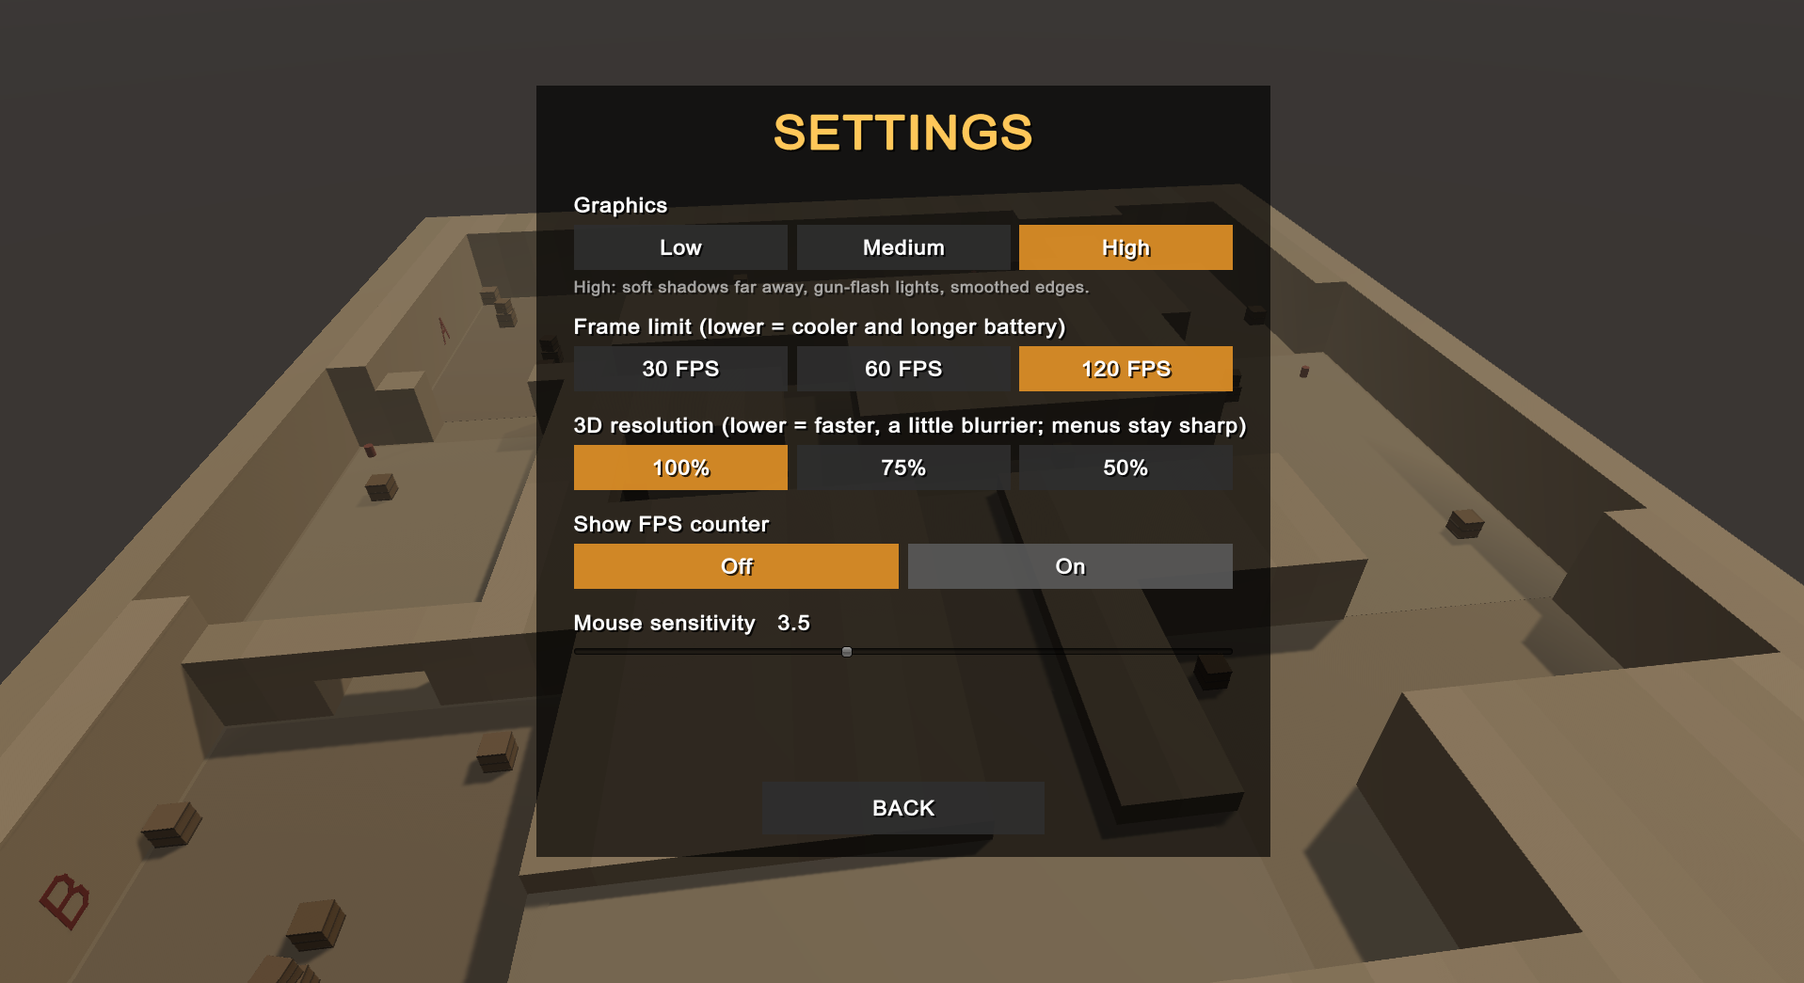
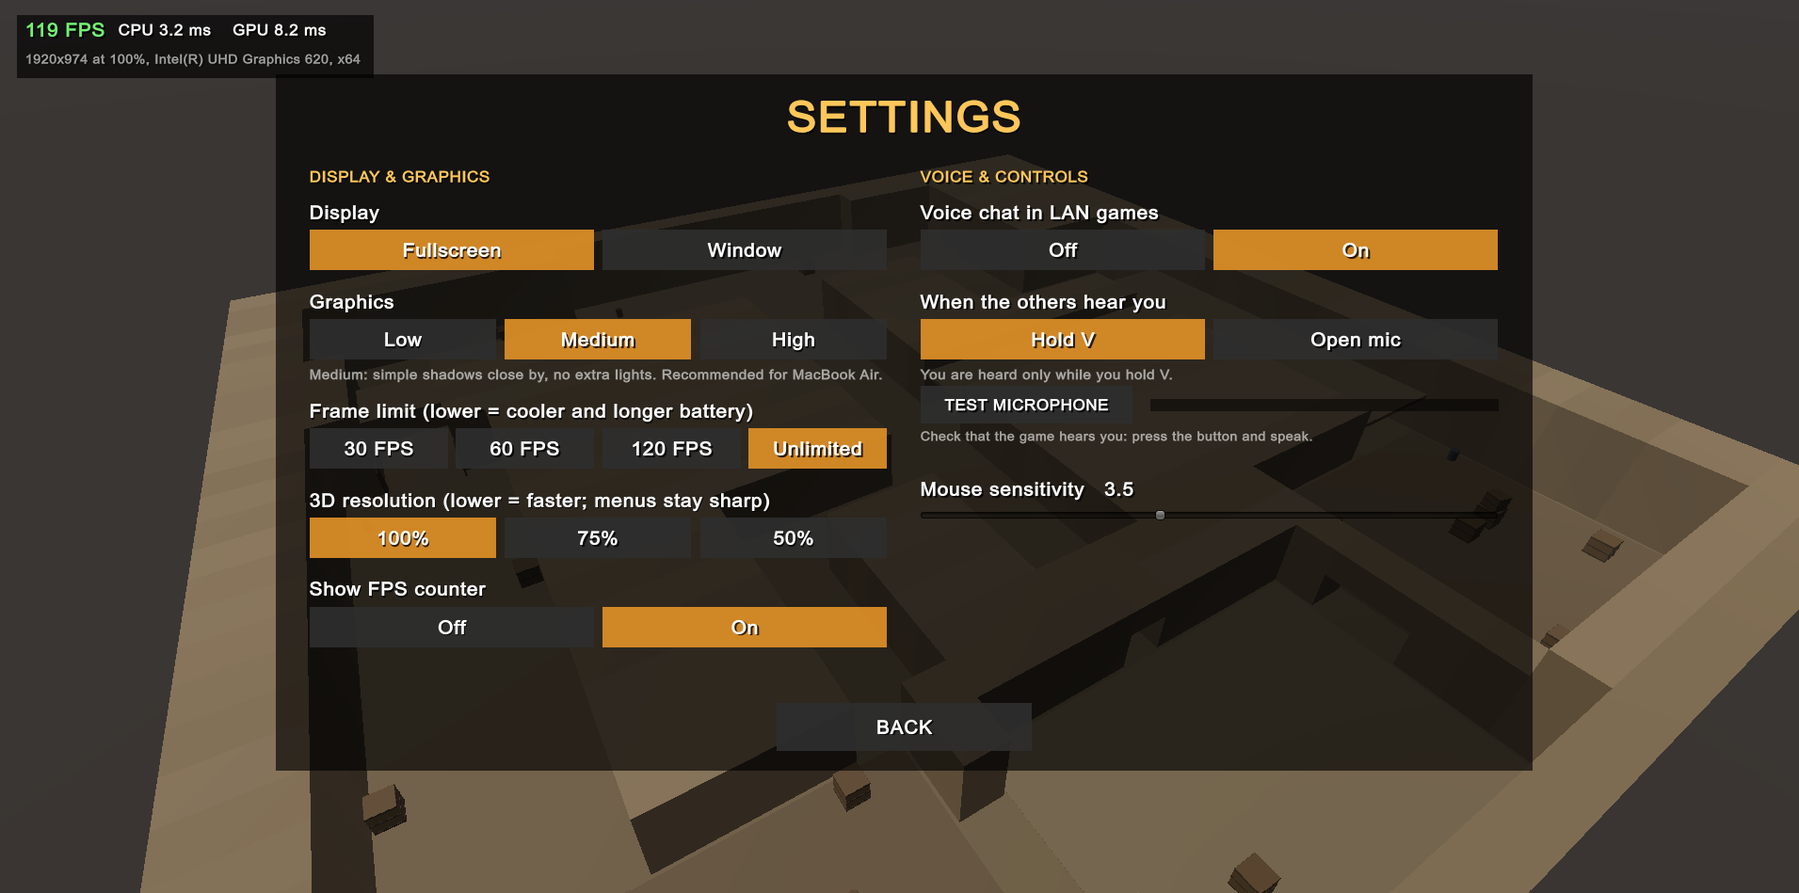
Website: new settings screenshot
The settings picture now shows the two-column Settings (display, frame
limit with Unlimited, voice chat and microphone test); captions updated
in all six languages.

diff --git a/Website/index.html b/Website/index.html
@@ -381,7 +381,7 @@
         <figure><button type="button" class="shot" id="shot-bomb" data-cap="cap_bomb"><img src="media/bombsite.jpg" alt="A Terrorist with the bomb on site A" data-i18n-alt="cap_bomb" width="1280" height="720" loading="lazy"></button><figcaption data-i18n="cap_bomb">A Terrorist with the bomb on site A</figcaption></figure>
         <figure><button type="button" class="shot" id="shot-swat" data-cap="cap_swat"><img src="media/swat.jpg" alt="SWAT in a firefight in the tunnel" data-i18n-alt="cap_swat" width="1280" height="720" loading="lazy"></button><figcaption data-i18n="cap_swat">SWAT in a firefight in the tunnel</figcaption></figure>
         <figure><button type="button" class="shot" id="shot-menu" data-cap="cap_menu"><img src="media/menu.webp" alt="Main menu" data-i18n-alt="cap_menu" loading="lazy"></button><figcaption data-i18n="cap_menu">Main menu: team, players, bots, rounds and friendly fire</figcaption></figure>
-        <figure><button type="button" class="shot" id="shot-settings" data-cap="cap_settings"><img src="media/settings.png" alt="Settings" data-i18n-alt="cap_settings" loading="lazy"></button><figcaption data-i18n="cap_settings">Settings: graphics, frame limit and 3D resolution</figcaption></figure>
+        <figure><button type="button" class="shot" id="shot-settings" data-cap="cap_settings"><img src="media/settings.png" alt="Settings" data-i18n-alt="cap_settings" loading="lazy"></button><figcaption data-i18n="cap_settings">Settings: display, graphics, frame limit, 3D resolution and voice chat</figcaption></figure>
         <figure><button type="button" class="shot" id="shot-inventory" data-cap="cap_inventory"><img src="media/inventory.png" alt="Inventory" data-i18n-alt="cap_inventory" loading="lazy"></button><figcaption data-i18n="cap_inventory">Inventory with the karambit equipped</figcaption></figure>
         <figure><button type="button" class="shot" id="shot-lan" data-cap="cap_lan"><img src="media/lan.webp" alt="LAN game" data-i18n-alt="cap_lan" loading="lazy"></button><figcaption data-i18n="cap_lan">LAN game: host or join on your network</figcaption></figure>
       </div>
@@ -483,7 +483,7 @@
       cat_pistols: "Pistols", cat_smg: "SMG & shotgun", cat_rifles: "Rifles & heavy", cat_equipment: "Equipment",
       screens_title: "Screenshots", screens_text: "Click a picture to see it bigger.",
       cap_team: "Teammates at the start of a round", cap_bomb: "A Terrorist with the bomb on site A", cap_swat: "SWAT in a firefight in the tunnel",
-      cap_menu: "Main menu: team, players, bots, rounds and friendly fire", cap_settings: "Settings: graphics, frame limit and 3D resolution",
+      cap_menu: "Main menu: team, players, bots, rounds and friendly fire", cap_settings: "Settings: display, graphics, frame limit, 3D resolution and voice chat",
       cap_inventory: "Inventory with the karambit equipped", cap_lan: "LAN game: host or join on your network",
       lb_close: "Close", lb_prev: "Previous", lb_next: "Next",
       controls_title: "Controls", controls_text: "Keyboard and mouse, the classic way.", key_mouse: "Mouse", key_space: "Space",
@@ -518,7 +518,7 @@
       cat_pistols: "Пістолети", cat_smg: "ПП і дробовик", cat_rifles: "Гвинтівки й важка зброя", cat_equipment: "Спорядження",
       screens_title: "Скриншоти", screens_text: "Натисни на картинку, щоб збільшити.",
       cap_team: "Союзники на початку раунду", cap_bomb: "Терорист із бомбою на точці A", cap_swat: "SWAT у перестрілці в тунелі",
-      cap_menu: "Головне меню: команда, гравці, боти, раунди й вогонь по своїх", cap_settings: "Налаштування: графіка, обмеження кадрів і 3D-роздільність",
+      cap_menu: "Головне меню: команда, гравці, боти, раунди й вогонь по своїх", cap_settings: "Налаштування: екран, графіка, обмеження кадрів, 3D-роздільність і голосовий чат",
       cap_inventory: "Інвентар із вибраним карамбітом", cap_lan: "Гра по мережі: створи гру або приєднайся",
       lb_close: "Закрити", lb_prev: "Попередній", lb_next: "Наступний",
       controls_title: "Керування", controls_text: "Клавіатура й миша, як завжди.", key_mouse: "Миша", key_space: "Пробіл",
@@ -553,7 +553,7 @@
       cat_pistols: "Pistolen", cat_smg: "MPs & Schrotflinte", cat_rifles: "Gewehre & Schweres", cat_equipment: "Ausrüstung",
       screens_title: "Screenshots", screens_text: "Klick auf ein Bild, um es groß zu sehen.",
       cap_team: "Teamkollegen zu Beginn einer Runde", cap_bomb: "Ein Terrorist mit der Bombe auf Platz A", cap_swat: "SWAT im Feuergefecht im Tunnel",
-      cap_menu: "Hauptmenü: Team, Spieler, Bots, Runden und Friendly Fire", cap_settings: "Einstellungen: Grafik, Bildratenlimit und 3D-Auflösung",
+      cap_menu: "Hauptmenü: Team, Spieler, Bots, Runden und Friendly Fire", cap_settings: "Einstellungen: Anzeige, Grafik, Bildratenlimit, 3D-Auflösung und Sprachchat",
       cap_inventory: "Inventar mit ausgerüstetem Karambit", cap_lan: "LAN-Spiel: im Netzwerk hosten oder beitreten",
       lb_close: "Schließen", lb_prev: "Zurück", lb_next: "Weiter",
       controls_title: "Steuerung", controls_text: "Tastatur und Maus, ganz klassisch.", key_mouse: "Maus", key_space: "Leertaste",
@@ -588,7 +588,7 @@
       cat_pistols: "Pistolets", cat_smg: "PM et fusil à pompe", cat_rifles: "Fusils et armes lourdes", cat_equipment: "Équipement",
       screens_title: "Captures d’écran", screens_text: "Clique sur une image pour l’agrandir.",
       cap_team: "Coéquipiers au début d’une manche", cap_bomb: "Un terroriste avec la bombe sur le site A", cap_swat: "Le SWAT en plein échange de tirs dans le tunnel",
-      cap_menu: "Menu principal : équipe, joueurs, bots, manches et tir allié", cap_settings: "Réglages : graphismes, limite d’images et résolution 3D",
+      cap_menu: "Menu principal : équipe, joueurs, bots, manches et tir allié", cap_settings: "Réglages : affichage, graphismes, limite d’images, résolution 3D et chat vocal",
       cap_inventory: "Inventaire avec le karambit équipé", cap_lan: "Partie LAN : héberger ou rejoindre sur ton réseau",
       lb_close: "Fermer", lb_prev: "Précédente", lb_next: "Suivante",
       controls_title: "Commandes", controls_text: "Clavier et souris, comme d’habitude.", key_mouse: "Souris", key_space: "Espace",
@@ -623,7 +623,7 @@
       cat_pistols: "Pistole", cat_smg: "Mitragliette e fucile a pompa", cat_rifles: "Fucili e armi pesanti", cat_equipment: "Equipaggiamento",
       screens_title: "Screenshot", screens_text: "Fai clic su un’immagine per ingrandirla.",
       cap_team: "Compagni di squadra all’inizio del round", cap_bomb: "Un terrorista con la bomba sul sito A", cap_swat: "SWAT in uno scontro a fuoco nel tunnel",
-      cap_menu: "Menu principale: squadra, giocatori, bot, round e fuoco amico", cap_settings: "Impostazioni: grafica, limite di fotogrammi e risoluzione 3D",
+      cap_menu: "Menu principale: squadra, giocatori, bot, round e fuoco amico", cap_settings: "Impostazioni: schermo, grafica, limite di fotogrammi, risoluzione 3D e chat vocale",
       cap_inventory: "Inventario con il karambit equipaggiato", cap_lan: "Partita LAN: crea o unisciti nella tua rete",
       lb_close: "Chiudi", lb_prev: "Precedente", lb_next: "Successiva",
       controls_title: "Comandi", controls_text: "Tastiera e mouse, come una volta.", key_mouse: "Mouse", key_space: "Spazio",
@@ -658,7 +658,7 @@
       cat_pistols: "Pistolas", cat_smg: "Subfusiles y escopeta", cat_rifles: "Fusiles y armas pesadas", cat_equipment: "Equipo",
       screens_title: "Capturas", screens_text: "Haz clic en una imagen para verla en grande.",
       cap_team: "Compañeros al empezar la ronda", cap_bomb: "Un terrorista con la bomba en el punto A", cap_swat: "Los SWAT en un tiroteo en el túnel",
-      cap_menu: "Menú principal: equipo, jugadores, bots, rondas y fuego amigo", cap_settings: "Ajustes: gráficos, límite de fotogramas y resolución 3D",
+      cap_menu: "Menú principal: equipo, jugadores, bots, rondas y fuego amigo", cap_settings: "Ajustes: pantalla, gráficos, límite de fotogramas, resolución 3D y chat de voz",
       cap_inventory: "Inventario con el karambit equipado", cap_lan: "Partida LAN: crea o únete en tu red",
       lb_close: "Cerrar", lb_prev: "Anterior", lb_next: "Siguiente",
       controls_title: "Controles", controls_text: "Teclado y ratón, como siempre.", key_mouse: "Ratón", key_space: "Espacio",

diff --git a/docs/ua/index.html b/docs/ua/index.html
@@ -420,7 +420,7 @@
         <figure><button type="button" class="shot" id="shot-bomb" data-cap="cap_bomb"><img src="../media/bombsite.jpg" alt="Терорист із бомбою на точці A" width="1280" height="720" loading="lazy"></button><figcaption>Терорист із бомбою на точці A</figcaption></figure>
         <figure><button type="button" class="shot" id="shot-swat" data-cap="cap_swat"><img src="../media/swat.jpg" alt="SWAT у перестрілці в тунелі" width="1280" height="720" loading="lazy"></button><figcaption>SWAT у перестрілці в тунелі</figcaption></figure>
         <figure><button type="button" class="shot" id="shot-menu" data-cap="cap_menu"><img src="../media/menu.webp" alt="Головне меню: команда, гравці, боти, раунди й вогонь по своїх" loading="lazy"></button><figcaption>Головне меню: команда, гравці, боти, раунди й вогонь по своїх</figcaption></figure>
-        <figure><button type="button" class="shot" id="shot-settings" data-cap="cap_settings"><img src="../media/settings.png" alt="Налаштування: графіка, обмеження кадрів і 3D-роздільність" loading="lazy"></button><figcaption>Налаштування: графіка, обмеження кадрів і 3D-роздільність</figcaption></figure>
+        <figure><button type="button" class="shot" id="shot-settings" data-cap="cap_settings"><img src="../media/settings.png" alt="Налаштування: екран, графіка, обмеження кадрів, 3D-роздільність і голосовий чат" loading="lazy"></button><figcaption>Налаштування: екран, графіка, обмеження кадрів, 3D-роздільність і голосовий чат</figcaption></figure>
         <figure><button type="button" class="shot" id="shot-inventory" data-cap="cap_inventory"><img src="../media/inventory.png" alt="Інвентар із вибраним карамбітом" loading="lazy"></button><figcaption>Інвентар із вибраним карамбітом</figcaption></figure>
         <figure><button type="button" class="shot" id="shot-lan" data-cap="cap_lan"><img src="../media/lan.webp" alt="Гра по мережі: створи гру або приєднайся" loading="lazy"></button><figcaption>Гра по мережі: створи гру або приєднайся</figcaption></figure>
       </div>

diff --git a/docs/fr/index.html b/docs/fr/index.html
@@ -420,7 +420,7 @@
         <figure><button type="button" class="shot" id="shot-bomb" data-cap="cap_bomb"><img src="../media/bombsite.jpg" alt="Un terroriste avec la bombe sur le site A" width="1280" height="720" loading="lazy"></button><figcaption>Un terroriste avec la bombe sur le site A</figcaption></figure>
         <figure><button type="button" class="shot" id="shot-swat" data-cap="cap_swat"><img src="../media/swat.jpg" alt="Le SWAT en plein échange de tirs dans le tunnel" width="1280" height="720" loading="lazy"></button><figcaption>Le SWAT en plein échange de tirs dans le tunnel</figcaption></figure>
         <figure><button type="button" class="shot" id="shot-menu" data-cap="cap_menu"><img src="../media/menu.webp" alt="Menu principal : équipe, joueurs, bots, manches et tir allié" loading="lazy"></button><figcaption>Menu principal : équipe, joueurs, bots, manches et tir allié</figcaption></figure>
-        <figure><button type="button" class="shot" id="shot-settings" data-cap="cap_settings"><img src="../media/settings.png" alt="Réglages : graphismes, limite d’images et résolution 3D" loading="lazy"></button><figcaption>Réglages : graphismes, limite d’images et résolution 3D</figcaption></figure>
+        <figure><button type="button" class="shot" id="shot-settings" data-cap="cap_settings"><img src="../media/settings.png" alt="Réglages : affichage, graphismes, limite d’images, résolution 3D et chat vocal" loading="lazy"></button><figcaption>Réglages : affichage, graphismes, limite d’images, résolution 3D et chat vocal</figcaption></figure>
         <figure><button type="button" class="shot" id="shot-inventory" data-cap="cap_inventory"><img src="../media/inventory.png" alt="Inventaire avec le karambit équipé" loading="lazy"></button><figcaption>Inventaire avec le karambit équipé</figcaption></figure>
         <figure><button type="button" class="shot" id="shot-lan" data-cap="cap_lan"><img src="../media/lan.webp" alt="Partie LAN : héberger ou rejoindre sur ton réseau" loading="lazy"></button><figcaption>Partie LAN : héberger ou rejoindre sur ton réseau</figcaption></figure>
       </div>

diff --git a/docs/it/index.html b/docs/it/index.html
@@ -420,7 +420,7 @@
         <figure><button type="button" class="shot" id="shot-bomb" data-cap="cap_bomb"><img src="../media/bombsite.jpg" alt="Un terrorista con la bomba sul sito A" width="1280" height="720" loading="lazy"></button><figcaption>Un terrorista con la bomba sul sito A</figcaption></figure>
         <figure><button type="button" class="shot" id="shot-swat" data-cap="cap_swat"><img src="../media/swat.jpg" alt="SWAT in uno scontro a fuoco nel tunnel" width="1280" height="720" loading="lazy"></button><figcaption>SWAT in uno scontro a fuoco nel tunnel</figcaption></figure>
         <figure><button type="button" class="shot" id="shot-menu" data-cap="cap_menu"><img src="../media/menu.webp" alt="Menu principale: squadra, giocatori, bot, round e fuoco amico" loading="lazy"></button><figcaption>Menu principale: squadra, giocatori, bot, round e fuoco amico</figcaption></figure>
-        <figure><button type="button" class="shot" id="shot-settings" data-cap="cap_settings"><img src="../media/settings.png" alt="Impostazioni: grafica, limite di fotogrammi e risoluzione 3D" loading="lazy"></button><figcaption>Impostazioni: grafica, limite di fotogrammi e risoluzione 3D</figcaption></figure>
+        <figure><button type="button" class="shot" id="shot-settings" data-cap="cap_settings"><img src="../media/settings.png" alt="Impostazioni: schermo, grafica, limite di fotogrammi, risoluzione 3D e chat vocale" loading="lazy"></button><figcaption>Impostazioni: schermo, grafica, limite di fotogrammi, risoluzione 3D e chat vocale</figcaption></figure>
         <figure><button type="button" class="shot" id="shot-inventory" data-cap="cap_inventory"><img src="../media/inventory.png" alt="Inventario con il karambit equipaggiato" loading="lazy"></button><figcaption>Inventario con il karambit equipaggiato</figcaption></figure>
         <figure><button type="button" class="shot" id="shot-lan" data-cap="cap_lan"><img src="../media/lan.webp" alt="Partita LAN: crea o unisciti nella tua rete" loading="lazy"></button><figcaption>Partita LAN: crea o unisciti nella tua rete</figcaption></figure>
       </div>

diff --git a/docs/es/index.html b/docs/es/index.html
@@ -420,7 +420,7 @@
         <figure><button type="button" class="shot" id="shot-bomb" data-cap="cap_bomb"><img src="../media/bombsite.jpg" alt="Un terrorista con la bomba en el punto A" width="1280" height="720" loading="lazy"></button><figcaption>Un terrorista con la bomba en el punto A</figcaption></figure>
         <figure><button type="button" class="shot" id="shot-swat" data-cap="cap_swat"><img src="../media/swat.jpg" alt="Los SWAT en un tiroteo en el túnel" width="1280" height="720" loading="lazy"></button><figcaption>Los SWAT en un tiroteo en el túnel</figcaption></figure>
         <figure><button type="button" class="shot" id="shot-menu" data-cap="cap_menu"><img src="../media/menu.webp" alt="Menú principal: equipo, jugadores, bots, rondas y fuego amigo" loading="lazy"></button><figcaption>Menú principal: equipo, jugadores, bots, rondas y fuego amigo</figcaption></figure>
-        <figure><button type="button" class="shot" id="shot-settings" data-cap="cap_settings"><img src="../media/settings.png" alt="Ajustes: gráficos, límite de fotogramas y resolución 3D" loading="lazy"></button><figcaption>Ajustes: gráficos, límite de fotogramas y resolución 3D</figcaption></figure>
+        <figure><button type="button" class="shot" id="shot-settings" data-cap="cap_settings"><img src="../media/settings.png" alt="Ajustes: pantalla, gráficos, límite de fotogramas, resolución 3D y chat de voz" loading="lazy"></button><figcaption>Ajustes: pantalla, gráficos, límite de fotogramas, resolución 3D y chat de voz</figcaption></figure>
         <figure><button type="button" class="shot" id="shot-inventory" data-cap="cap_inventory"><img src="../media/inventory.png" alt="Inventario con el karambit equipado" loading="lazy"></button><figcaption>Inventario con el karambit equipado</figcaption></figure>
         <figure><button type="button" class="shot" id="shot-lan" data-cap="cap_lan"><img src="../media/lan.webp" alt="Partida LAN: crea o únete en tu red" loading="lazy"></button><figcaption>Partida LAN: crea o únete en tu red</figcaption></figure>
       </div>

diff --git a/docs/de/index.html b/docs/de/index.html
@@ -420,7 +420,7 @@
         <figure><button type="button" class="shot" id="shot-bomb" data-cap="cap_bomb"><img src="../media/bombsite.jpg" alt="Ein Terrorist mit der Bombe auf Platz A" width="1280" height="720" loading="lazy"></button><figcaption>Ein Terrorist mit der Bombe auf Platz A</figcaption></figure>
         <figure><button type="button" class="shot" id="shot-swat" data-cap="cap_swat"><img src="../media/swat.jpg" alt="SWAT im Feuergefecht im Tunnel" width="1280" height="720" loading="lazy"></button><figcaption>SWAT im Feuergefecht im Tunnel</figcaption></figure>
         <figure><button type="button" class="shot" id="shot-menu" data-cap="cap_menu"><img src="../media/menu.webp" alt="Hauptmenü: Team, Spieler, Bots, Runden und Friendly Fire" loading="lazy"></button><figcaption>Hauptmenü: Team, Spieler, Bots, Runden und Friendly Fire</figcaption></figure>
-        <figure><button type="button" class="shot" id="shot-settings" data-cap="cap_settings"><img src="../media/settings.png" alt="Einstellungen: Grafik, Bildratenlimit und 3D-Auflösung" loading="lazy"></button><figcaption>Einstellungen: Grafik, Bildratenlimit und 3D-Auflösung</figcaption></figure>
+        <figure><button type="button" class="shot" id="shot-settings" data-cap="cap_settings"><img src="../media/settings.png" alt="Einstellungen: Anzeige, Grafik, Bildratenlimit, 3D-Auflösung und Sprachchat" loading="lazy"></button><figcaption>Einstellungen: Anzeige, Grafik, Bildratenlimit, 3D-Auflösung und Sprachchat</figcaption></figure>
         <figure><button type="button" class="shot" id="shot-inventory" data-cap="cap_inventory"><img src="../media/inventory.png" alt="Inventar mit ausgerüstetem Karambit" loading="lazy"></button><figcaption>Inventar mit ausgerüstetem Karambit</figcaption></figure>
         <figure><button type="button" class="shot" id="shot-lan" data-cap="cap_lan"><img src="../media/lan.webp" alt="LAN-Spiel: im Netzwerk hosten oder beitreten" loading="lazy"></button><figcaption>LAN-Spiel: im Netzwerk hosten oder beitreten</figcaption></figure>
       </div>

diff --git a/docs/index.html b/docs/index.html
@@ -420,7 +420,7 @@
         <figure><button type="button" class="shot" id="shot-bomb" data-cap="cap_bomb"><img src="media/bombsite.jpg" alt="A Terrorist with the bomb on site A" width="1280" height="720" loading="lazy"></button><figcaption>A Terrorist with the bomb on site A</figcaption></figure>
         <figure><button type="button" class="shot" id="shot-swat" data-cap="cap_swat"><img src="media/swat.jpg" alt="SWAT in a firefight in the tunnel" width="1280" height="720" loading="lazy"></button><figcaption>SWAT in a firefight in the tunnel</figcaption></figure>
         <figure><button type="button" class="shot" id="shot-menu" data-cap="cap_menu"><img src="media/menu.webp" alt="Main menu: team, players, bots, rounds and friendly fire" loading="lazy"></button><figcaption>Main menu: team, players, bots, rounds and friendly fire</figcaption></figure>
-        <figure><button type="button" class="shot" id="shot-settings" data-cap="cap_settings"><img src="media/settings.png" alt="Settings: graphics, frame limit and 3D resolution" loading="lazy"></button><figcaption>Settings: graphics, frame limit and 3D resolution</figcaption></figure>
+        <figure><button type="button" class="shot" id="shot-settings" data-cap="cap_settings"><img src="media/settings.png" alt="Settings: display, graphics, frame limit, 3D resolution and voice chat" loading="lazy"></button><figcaption>Settings: display, graphics, frame limit, 3D resolution and voice chat</figcaption></figure>
         <figure><button type="button" class="shot" id="shot-inventory" data-cap="cap_inventory"><img src="media/inventory.png" alt="Inventory with the karambit equipped" loading="lazy"></button><figcaption>Inventory with the karambit equipped</figcaption></figure>
         <figure><button type="button" class="shot" id="shot-lan" data-cap="cap_lan"><img src="media/lan.webp" alt="LAN game: host or join on your network" loading="lazy"></button><figcaption>LAN game: host or join on your network</figcaption></figure>
       </div>
